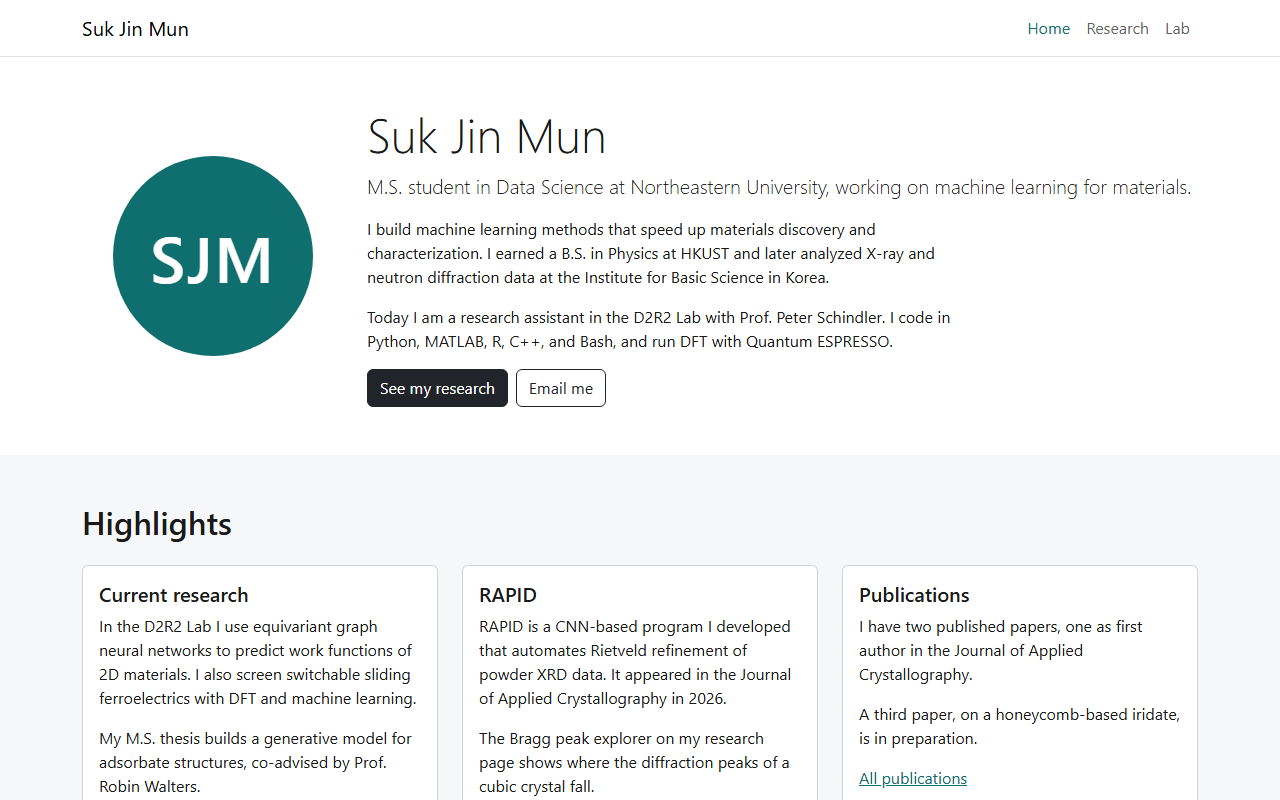
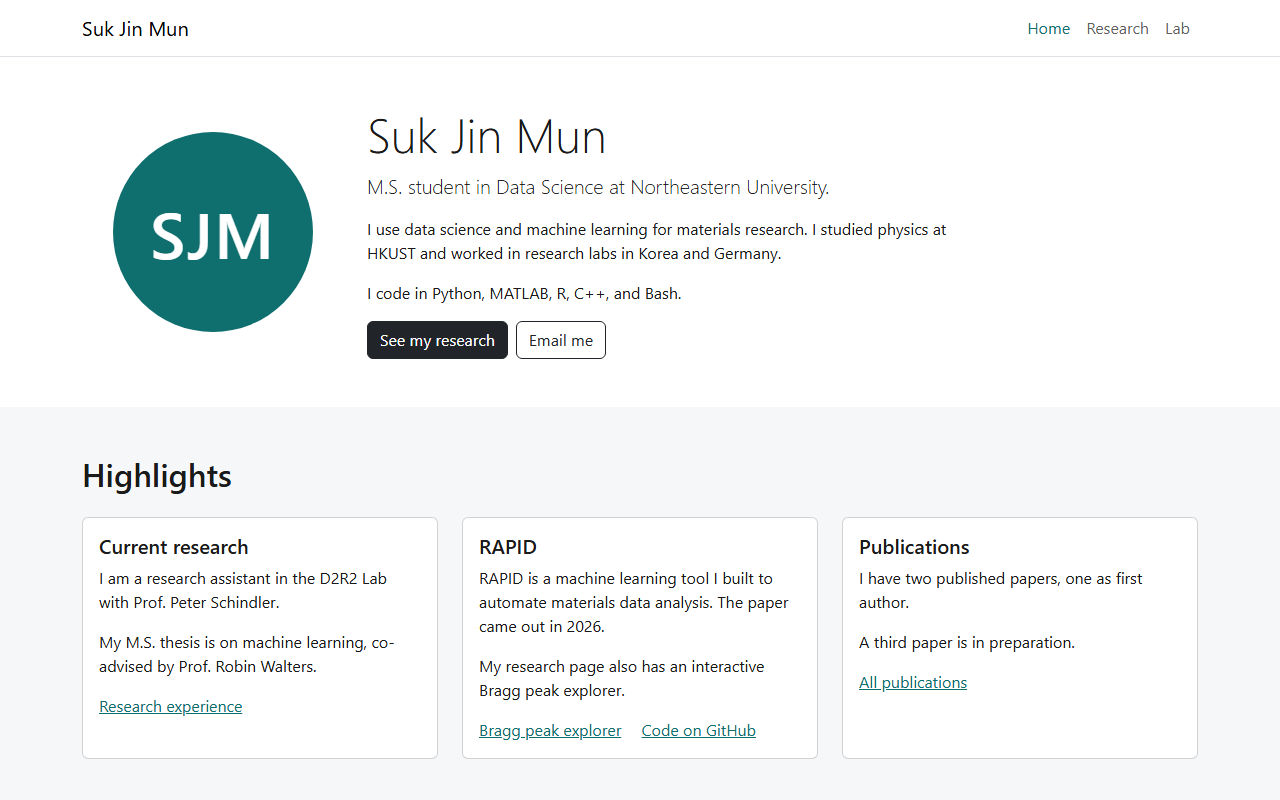
Update README, screenshots, and design document

diff --git a/README.md b/README.md
@@ -1,13 +1,13 @@
 # Suk Jin Mun, personal homepage
 
-A three page static homepage built with HTML5, CSS3, ES6 modules, and Bootstrap 5.3, with research, publications, a Bragg peak explorer, and a 2D Ising model.
+A three page static homepage built with HTML5, CSS3, ES6 modules, and Bootstrap 5.3.
 
 ## Links
 
-- Live site: added when the public repository is deployed with GitHub Pages
-- Design document: [docs/design_document.pdf](docs/design_document.pdf)
-- Video: added after recording
-- Slides: added after upload
+\# Live site: added when the repository is deployed with GitHub Pages\
+\# Design document: [docs/design_document.pdf](docs/design_document.pdf)\
+\# Video: added after recording\
+\# Slides: added after upload
 
 ## Author
 
@@ -19,7 +19,7 @@ Suk Jin Mun, [mun.s@northeastern.edu](mailto:mun.s@northeastern.edu), GitHub [Su
 
 ## Project objective
 
-The site is the personal homepage of Suk Jin Mun, an M.S. Data Science student at Northeastern University who builds machine learning methods for materials discovery and crystallography. It tells a visitor who he is, what research he has done and published, and how to reach him, and it adds one interactive piece that shows what diffraction analysis computes. Its readers are professors who review PhD applications, engineers who hire for materials informatics and machine learning roles, and classmates or lab collaborators.
+This is my personal homepage. I am an M.S. Data Science student at Northeastern University, and I use data science and machine learning for materials research. The site shows who I am, my research and publications, and how to reach me. It is written for professors, recruiters, and classmates.
 
 ## Screenshot
 
@@ -27,15 +27,15 @@ The site is the personal homepage of Suk Jin Mun, an M.S. Data Science student a
 
 ## Pages
 
-- index.html, Home: a hero with the name, a role line, and a short about text, three highlight cards that link into the research page, education, and contact links.
-- research.html, Research: research interests, six research positions from newest to oldest, publications, and the Bragg peak explorer.
-- lab.html, Lab: the third page, made as described in [GenAI use](#genai-use), with a short explanation and an interactive 2D Ising model that has a temperature slider marked at the critical temperature, a lattice size select, Play and Reset buttons, live magnetization and energy per spin, and a plot of the magnetization over the last 200 frames with the same data in a table.
+\# index.html, Home: a short intro, highlights, education, and contact links.\
+\# research.html, Research: my interests, research positions, publications, and the Bragg peak explorer.\
+\# lab.html, Lab: an interactive 2D Ising model, made with GenAI as described below.
 
-All three pages share the navbar, the footer, and css/style.css, and js/main.js marks the current page in the navbar and sets the footer year.
+All pages share the navbar, the footer, and css/style.css. js/main.js marks the current page and sets the footer year.
 
 ## Original component
 
-The Bragg peak explorer on research.html, written from scratch in js/bragg.js with no library, shows where the powder X-ray diffraction peaks of a cubic crystal fall. The visitor picks simple, body centered, or face centered cubic, a lattice constant a from 3.00 to 6.00 Å, and a Cu Kα or Mo Kα source, and the module keeps the hkl reflections that the lattice allows, groups those with the same h² + k² + l², and computes d = a / √(h² + k² + l²) and 2θ = 2 arcsin(λ / 2d) for each peak. Every peak between 10° and 90° in 2θ is drawn as a stick on a canvas, the first ones carrying their hkl labels, and listed in a table with its d and 2θ.
+The Bragg peak explorer on research.html is written from scratch in js/bragg.js. You pick a crystal type, a size, and a light source, and it draws where the peaks fall on a canvas and lists them in a table.
 
 ## Instructions to build
 
@@ -48,12 +48,12 @@ The site is static and has no build step.
    cd CS5610_project1_SJM
    ```
 
-2. `npm install` installs the packages listed in package.json: Bootstrap 5.3.8, the version the pages load from the jsDelivr CDN, and the dev dependencies ESLint, Prettier, http-server, and the ESLint plugins.
-3. `npm start` serves the folder with http-server at http://localhost:8080 and opens the home page.
-4. `npm run lint` runs ESLint with the class config in eslint.config.js.
+2. `npm install` installs Bootstrap 5.3.8 and the dev tools (ESLint, Prettier, http-server).
+3. `npm start` serves the site at http://localhost:8080.
+4. `npm run lint` runs ESLint with the class config.
 5. `npm run format` formats the files with Prettier.
 
-Any static server works too, for example `python3 -m http.server 8080` in the project folder. Open the pages through a server, since ES modules do not load from file:// URLs.
+Any static server works, for example `python3 -m http.server 8080`. Use a server, since ES modules do not load from file:// URLs.
 
 ## Project structure
 
@@ -62,11 +62,11 @@ CS5610_project1_SJM/
 ├── index.html          Home
 ├── research.html       Research and the Bragg peak explorer
 ├── lab.html            Lab and the 2D Ising model
-├── css/style.css       Palette and page rules on top of Bootstrap
+├── css/style.css       Styles on top of Bootstrap
 ├── js/main.js          Active navbar link and footer year
 ├── js/bragg.js         Bragg peak explorer
-├── js/ising.js         Ising model simulation
-├── images/             Avatar, favicon, screenshot, and thumbnail
+├── js/ising.js         Ising model
+├── images/             Avatar, favicon, screenshot, thumbnail
 ├── docs/               Design document PDF
 ├── eslint.config.js    Class ESLint config
 ├── package.json        Scripts and dependencies
@@ -75,53 +75,22 @@ CS5610_project1_SJM/
 
 ## GenAI use
 
-The tool was Claude by Anthropic with the model Claude Opus 5.5 (model ID claude-opus-5-5), used through the Claude Code agent in September 2026.
+Model: Claude Opus 5.5 (claude-opus-5-5) by Anthropic, through Claude Code, September 2026.
 
-The Lab page, lab.html, its module js/ising.js, and the Lab block at the end of css/style.css were generated with it after index.html and research.html were finished. The session started in plan mode, where the agent read the two finished pages, css/style.css, js/main.js, and js/bragg.js as the style reference and agreed on a plan before it wrote any code. These are the ten prompts, verbatim, each followed by what it produced.
+AI made the Lab page (lab.html, js/ising.js, and the Lab part of css/style.css) after I finished my other two pages. I gave it my pages as the style reference and agreed on a plan before any code. My prompts, shortened:
 
-1. > Act as a professional full stack developer with 20 years of experience. We are in plan mode: do not create or change any file until I tell you to implement. I am building my personal homepage for my web development class with vanilla HTML, CSS, ES6 modules, and Bootstrap 5.3. First read index.html, research.html, css/style.css, js/main.js, and js/bragg.js. They are the pages I built and they define my style. I need a third page, lab.html, made together with you. I want something interactive that connects to my physics background, and I am undecided between a 2D Ising model simulation, a crystal lattice viewer, and a random walk visualizer. Help me think it through, and ask me the questions you need before proposing anything.
+1. You are a full stack developer with 20 years of experience. Plan first, change no files, and ask me questions.
+2. Plan a 2D Ising model page with a temperature slider, play, reset, and grid size, with no libraries.
+3. Write lab.html with my shared header and footer.
+4. Write the simulation in js/ising.js.
+5. Connect the controls and the readouts.
+6. Test it in Chrome and fix what is broken.
+7. Add a Tc mark and a small magnetization plot.
+8. Match my other pages and make it work on a phone.
+9. Add canvas labels and keyboard focus.
+10. Fix the ESLint and W3C errors.
 
-   The agent read the five files, weighed the three ideas, and asked five questions about the goal, the research link, the controls, the readouts, and the limits, and changed no file.
-
-2. > Let's go with the 2D Ising model. My answers: it is a separate page at lab.html with the same navbar and footer as my other pages. The visitor may have no physics background, so include a short plain explanation. Controls: a temperature slider, play and pause, reset, and a lattice size choice of 32, 64, or 128. Show the live magnetization and energy per spin. Use the Metropolis algorithm on a canvas with no libraries, and put the code in js/ising.js as an ES module. It must pass my class ESLint config (double quotes, semicolons, two space indent) and the W3C validator. Now write the plan in phases with a verification step for each phase. Still do not implement.
-
-   The agent wrote a phased plan for the page with a verification step for each phase, and no code yet.
-
-3. > The plan looks good. Implement phase 1 only: lab.html with the shared head, navbar, and footer, and the layout for the explanation, the canvas area, and the controls, matching the cards and spacing of research.html. Show me what you changed.
-
-   The agent created lab.html with the shared head, navbar, and footer, the explanation, and one card holding the controls, the canvas, and the readouts, plus an empty js/ising.js module.
-
-4. > Implement phase 2: the simulation in js/ising.js. Keep the lattice in a typed array with periodic boundaries, run a fixed number of Metropolis sweeps per animation frame, and draw the spins in two colors from my palette. Do not touch my other pages.
-
-   The agent wrote the simulation in js/ising.js, which keeps the spins in an Int8Array with periodic edges, runs four Metropolis sweeps per animation frame, and draws up spins in the teal accent and down spins in white, and it wired Play, Reset, size, and temperature.
-
-5. > Implement phase 3: wire up the controls and the readouts. The temperature slider goes from 0.5 to 5.0 in steps of 0.05 and shows its value. Play and pause is one button whose label changes. Reset randomizes the lattice again. Changing the size restarts the simulation at that size.
-
-   The agent set the temperature step to 0.05 in lab.html and moved the default from 2.27 to 2.25, since the rest of the wiring was already in place.
-
-6. > Now verify it: serve the site locally, open lab.html in Chrome, check the console for errors, and check that play, pause, reset, size, and temperature all work. Fix anything that is broken and tell me what you found.
-
-   The agent tested the page in Chrome, found no console errors and every control working, and changed no file.
-
-7. > Add two things: a marker on the temperature scale at the critical temperature of about 2.269 with one sentence saying what happens there, and a small live line plot of the magnetization over the last 200 frames, drawn on its own canvas.
-
-   The agent added a Tc marker at 2.269 under the temperature slider with one sentence on what happens there, and a canvas plot of the magnetization over the last 200 frames.
-
-8. > It still does not look like my other pages in a few places. Match the heading sizes, card padding, and text width of research.html, use my teal accent for the controls, and make sure it works on a phone: the canvas scales to the column width and the controls stack under it.
-
-   The agent held the Tc sentence to the prose width, set the readout labels to normal weight, made the buttons and focus rings teal, and ordered the phone layout with the canvas first and the controls stacked under it.
-
-9. > Accessibility pass: give each canvas a role and an accessible label, keep a text readout that screen readers can follow, make every control reachable by keyboard with a visible focus, and when prefers-reduced-motion is set, do not start the animation until the visitor presses play.
-
-   The agent added a screen reader status line for Play and Pause, Reset, size changes, and every 5 seconds of running, kept screen readers from reading the readouts every frame, and added a teal outline on the focused control, and the paused start already covered reduced motion.
-
-10. > Final check: run my class ESLint config, Prettier, and the W3C validator on lab.html and js/ising.js and fix every error. Then explain to me step by step how the Metropolis update in ising.js works, so I understand the code I am submitting.
-
-    The agent ran ESLint, Prettier, and the W3C validator with nothing to fix, and explained the Metropolis update in js/ising.js step by step.
-
-After the ten prompts, a review of the site led to more edits of the Lab page, made with the same assistant: a table of the magnetization history in lab.html that js/ising.js fills for screen reader users, a note on the temperature units and on what a finite lattice shows at the critical temperature, and small wording fixes.
-
-The same assistant was also used to help build and review the other two pages, the design document, and this README.
+The same assistant also helped build and review my other two pages, the design document, and this README, and it later shortened the Lab page text.
 
 ## License
 
